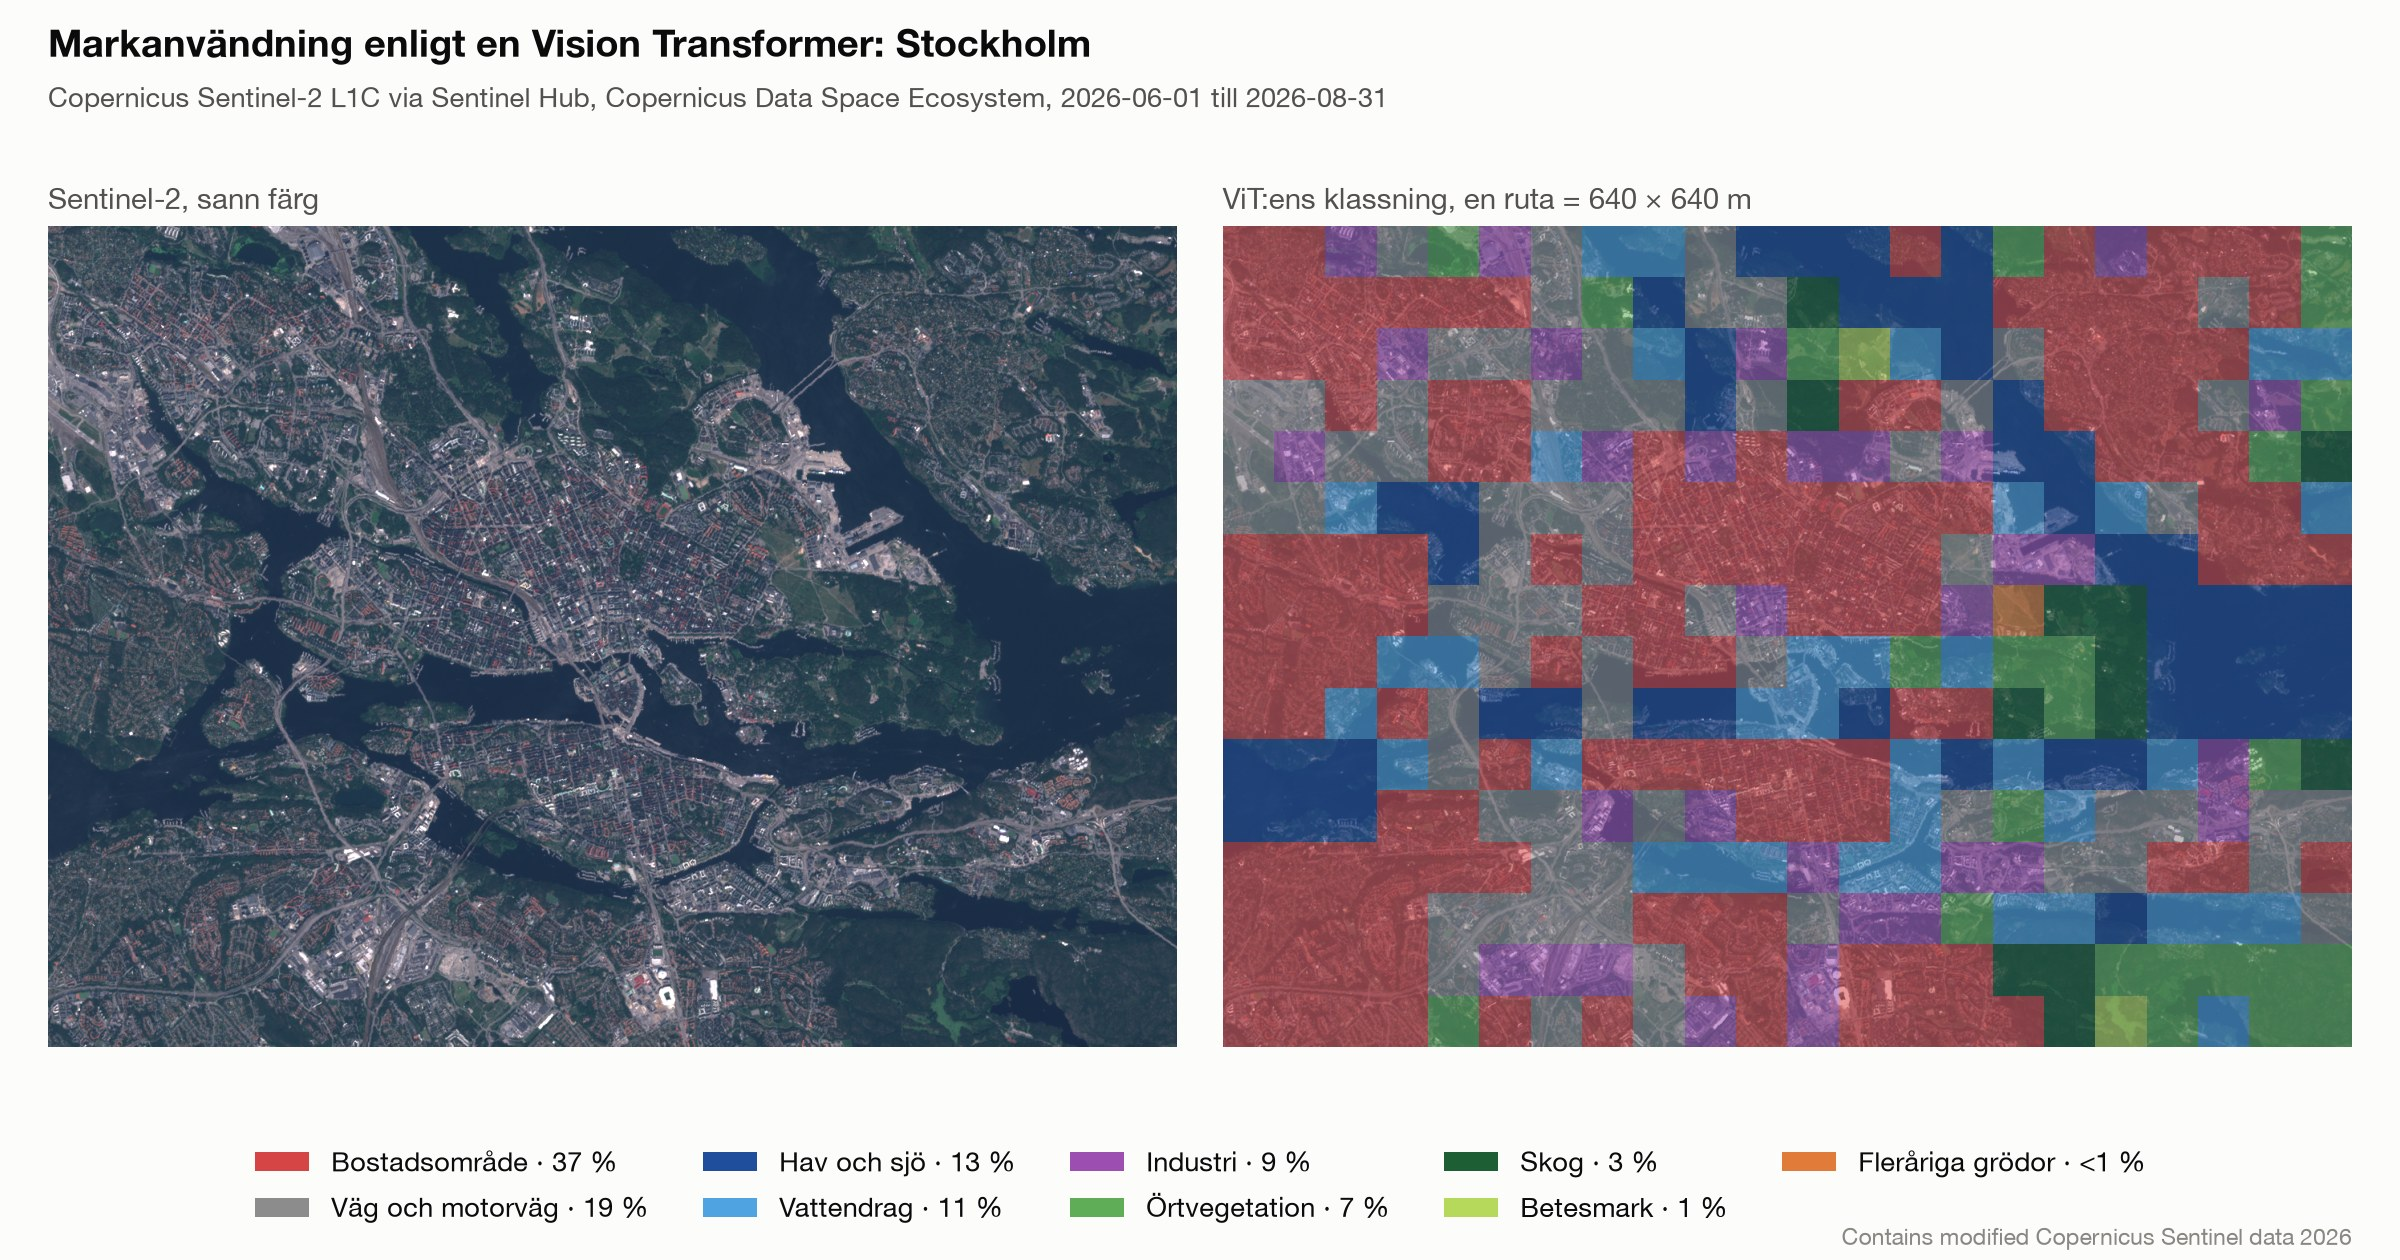
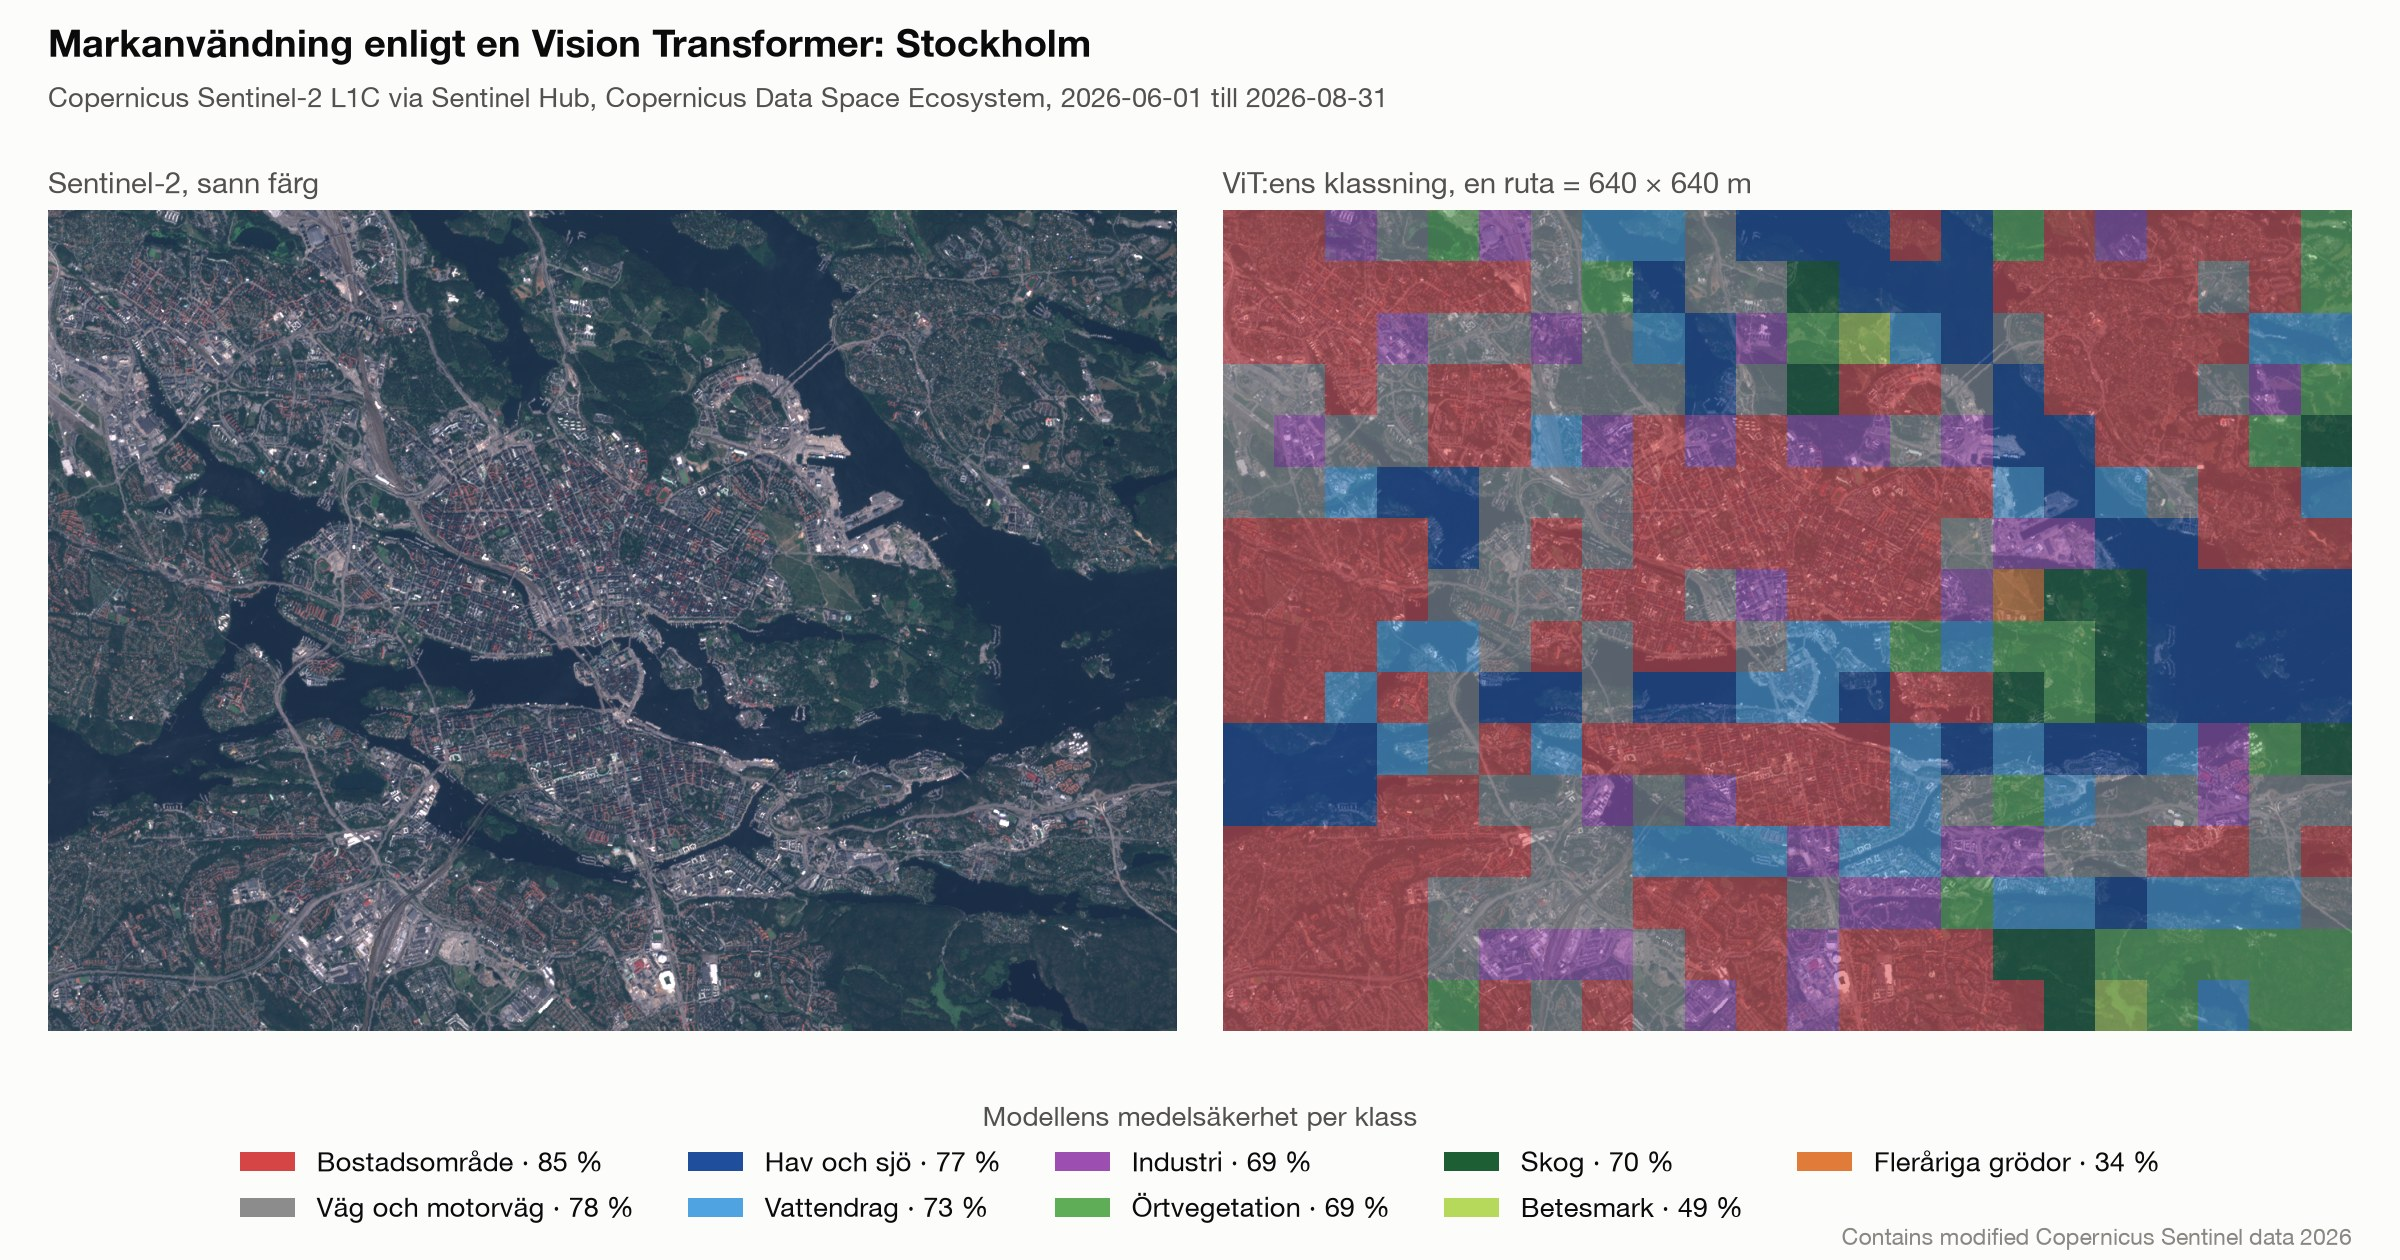
Show mean confidence in the satellite map legend
The legend of map.png now lists the model's mean confidence per class
instead of each class's share of the patches, under a legend title so
the percentages are not read as shares. Classes stay ordered by share,
and summary.md still reports both. The docs and the Stockholm map image
in docs/images are updated to match.

diff --git a/src/intro_to_vit/satellite/mapping.py b/src/intro_to_vit/satellite/mapping.py
@@ -39,6 +39,13 @@ class LandUseMap:
         total = max(1, len(valid))
         return dict(sorted(((n, c / total) for n, c in counts.items() if c), key=lambda kv: -kv[1]))
 
+    def mean_confidence(self) -> dict[str, float]:
+        """Return the mean probability the model gave its prediction, per class, in the order of `shares`."""
+        return {
+            name: float(self.confidence[self.classes == self.class_names.index(name)].mean())
+            for name in self.shares()
+        }
+
 
 def format_share(share: float) -> str:
     """Format a share in Swedish style, e.g. 0.27 -> '27 %', and anything below 0.5 % as '<1 %'."""
@@ -77,10 +84,9 @@ def classify_scene(model: nn.Module, class_names: list[str], image: np.ndarray, 
 def format_summary(land_use: LandUseMap, title: str) -> str:
     """Render each class's share and the model's mean confidence as a Markdown table."""
     lines = [title, "", "| Klass | Andel av rutorna | Medelsäkerhet |", "|---|---|---|"]
+    confidences = land_use.mean_confidence()
     for name, share in land_use.shares().items():
-        index = land_use.class_names.index(name)
-        mean_confidence = float(land_use.confidence[land_use.classes == index].mean())
-        lines.append(f"| {SWEDISH_NAMES.get(name, name)} | {format_share(share)} | {format_share(mean_confidence)} |")
+        lines.append(f"| {SWEDISH_NAMES.get(name, name)} | {format_share(share)} | {format_share(confidences[name])} |")
     return "\n".join(lines)
 
 
@@ -95,7 +101,7 @@ def class_overlay(land_use: LandUseMap, alpha: float = 0.55) -> np.ndarray:
 def render_map(
     image: np.ndarray, land_use: LandUseMap, path: str | Path, title: str, subtitle: str, credit: str = ""
 ) -> Path:
-    """Save the scene and the ViT's land-use map side by side, with a legend of class shares.
+    """Save the scene and the ViT's land-use map side by side, with each class's mean confidence in the legend.
 
     `credit` is printed in the bottom-right corner, e.g. the attribution Copernicus data requires.
     """
@@ -113,18 +119,20 @@ def render_map(
         axes[1].imshow(class_overlay(land_use), extent=extent, interpolation="nearest")
         handles = [
             Patch(facecolor=CLASS_COLORS.get(name, "#000000"), edgecolor="none",
-                  label=f"{SWEDISH_NAMES.get(name, name)} · {format_share(share)}")
-            for name, share in land_use.shares().items()
+                  label=f"{SWEDISH_NAMES.get(name, name)} · {format_share(confidence)}")
+            for name, confidence in land_use.mean_confidence().items()
         ]
         legend = fig.legend(handles=handles, loc="lower center", ncol=min(5, len(handles)), frameon=False,
-                            fontsize=13 * PX * 1.4, bbox_to_anchor=(0.5, 0.01))
+                            fontsize=13 * PX * 1.4, bbox_to_anchor=(0.5, 0.01),
+                            title="Modellens medelsäkerhet per klass", title_fontsize=13 * PX * 1.4)
+        legend.get_title().set_color(colors["ink2"])
         for text in legend.get_texts():
             text.set_color(colors["ink"])
         fig.text(0.02, 0.955, title, fontsize=18 * PX * 1.4, fontweight="bold", color=colors["ink"])
         fig.text(0.02, 0.915, subtitle, fontsize=13 * PX * 1.4, color=colors["ink2"])
         if credit:
             fig.text(0.98, 0.012, credit, fontsize=11 * PX * 1.4, color=colors["muted"], ha="right")
-        fig.subplots_adjust(left=0.02, right=0.98, top=0.86, bottom=0.13, wspace=0.04)
+        fig.subplots_adjust(left=0.02, right=0.98, top=0.86, bottom=0.155, wspace=0.04)
         path = Path(path)
         fig.savefig(path, dpi=150, facecolor=colors["surface"])
         plt.close(fig)

diff --git a/docs/satellite-demo.md b/docs/satellite-demo.md
@@ -22,8 +22,8 @@ make satellite-demo                   # fetch Stockholm via Sentinel Hub and dra
 make satellite-demo AREA=uppsala      # or: lund
 ```
 
-The map lands in `results/satellite/<area>/map.png`, with the class shares in `summary.md` and every
-patch's class and confidence in `land_use.json`.
+The map lands in `results/satellite/<area>/map.png`, with each class's share and mean confidence in
+`summary.md` and every patch's class and confidence in `land_use.json`.
 
 Other areas and dates:
 
@@ -101,7 +101,8 @@ most 2500 × 2500 pixels, which is 25 × 25 km at 10 m; the three predefined are
 
 **The map.** The scene is cut into non-overlapping 64 × 64 pixel patches (640 × 640 m), each is
 classified, and patches without data are skipped. The map shows each patch in its class colour on
-top of the image, with each class's share of the area in the legend.
+top of the image. The legend gives the model's mean confidence for each class, the average
+probability it gave its prediction on the patches of that class, with the most common class first.
 
 ## Results
 
